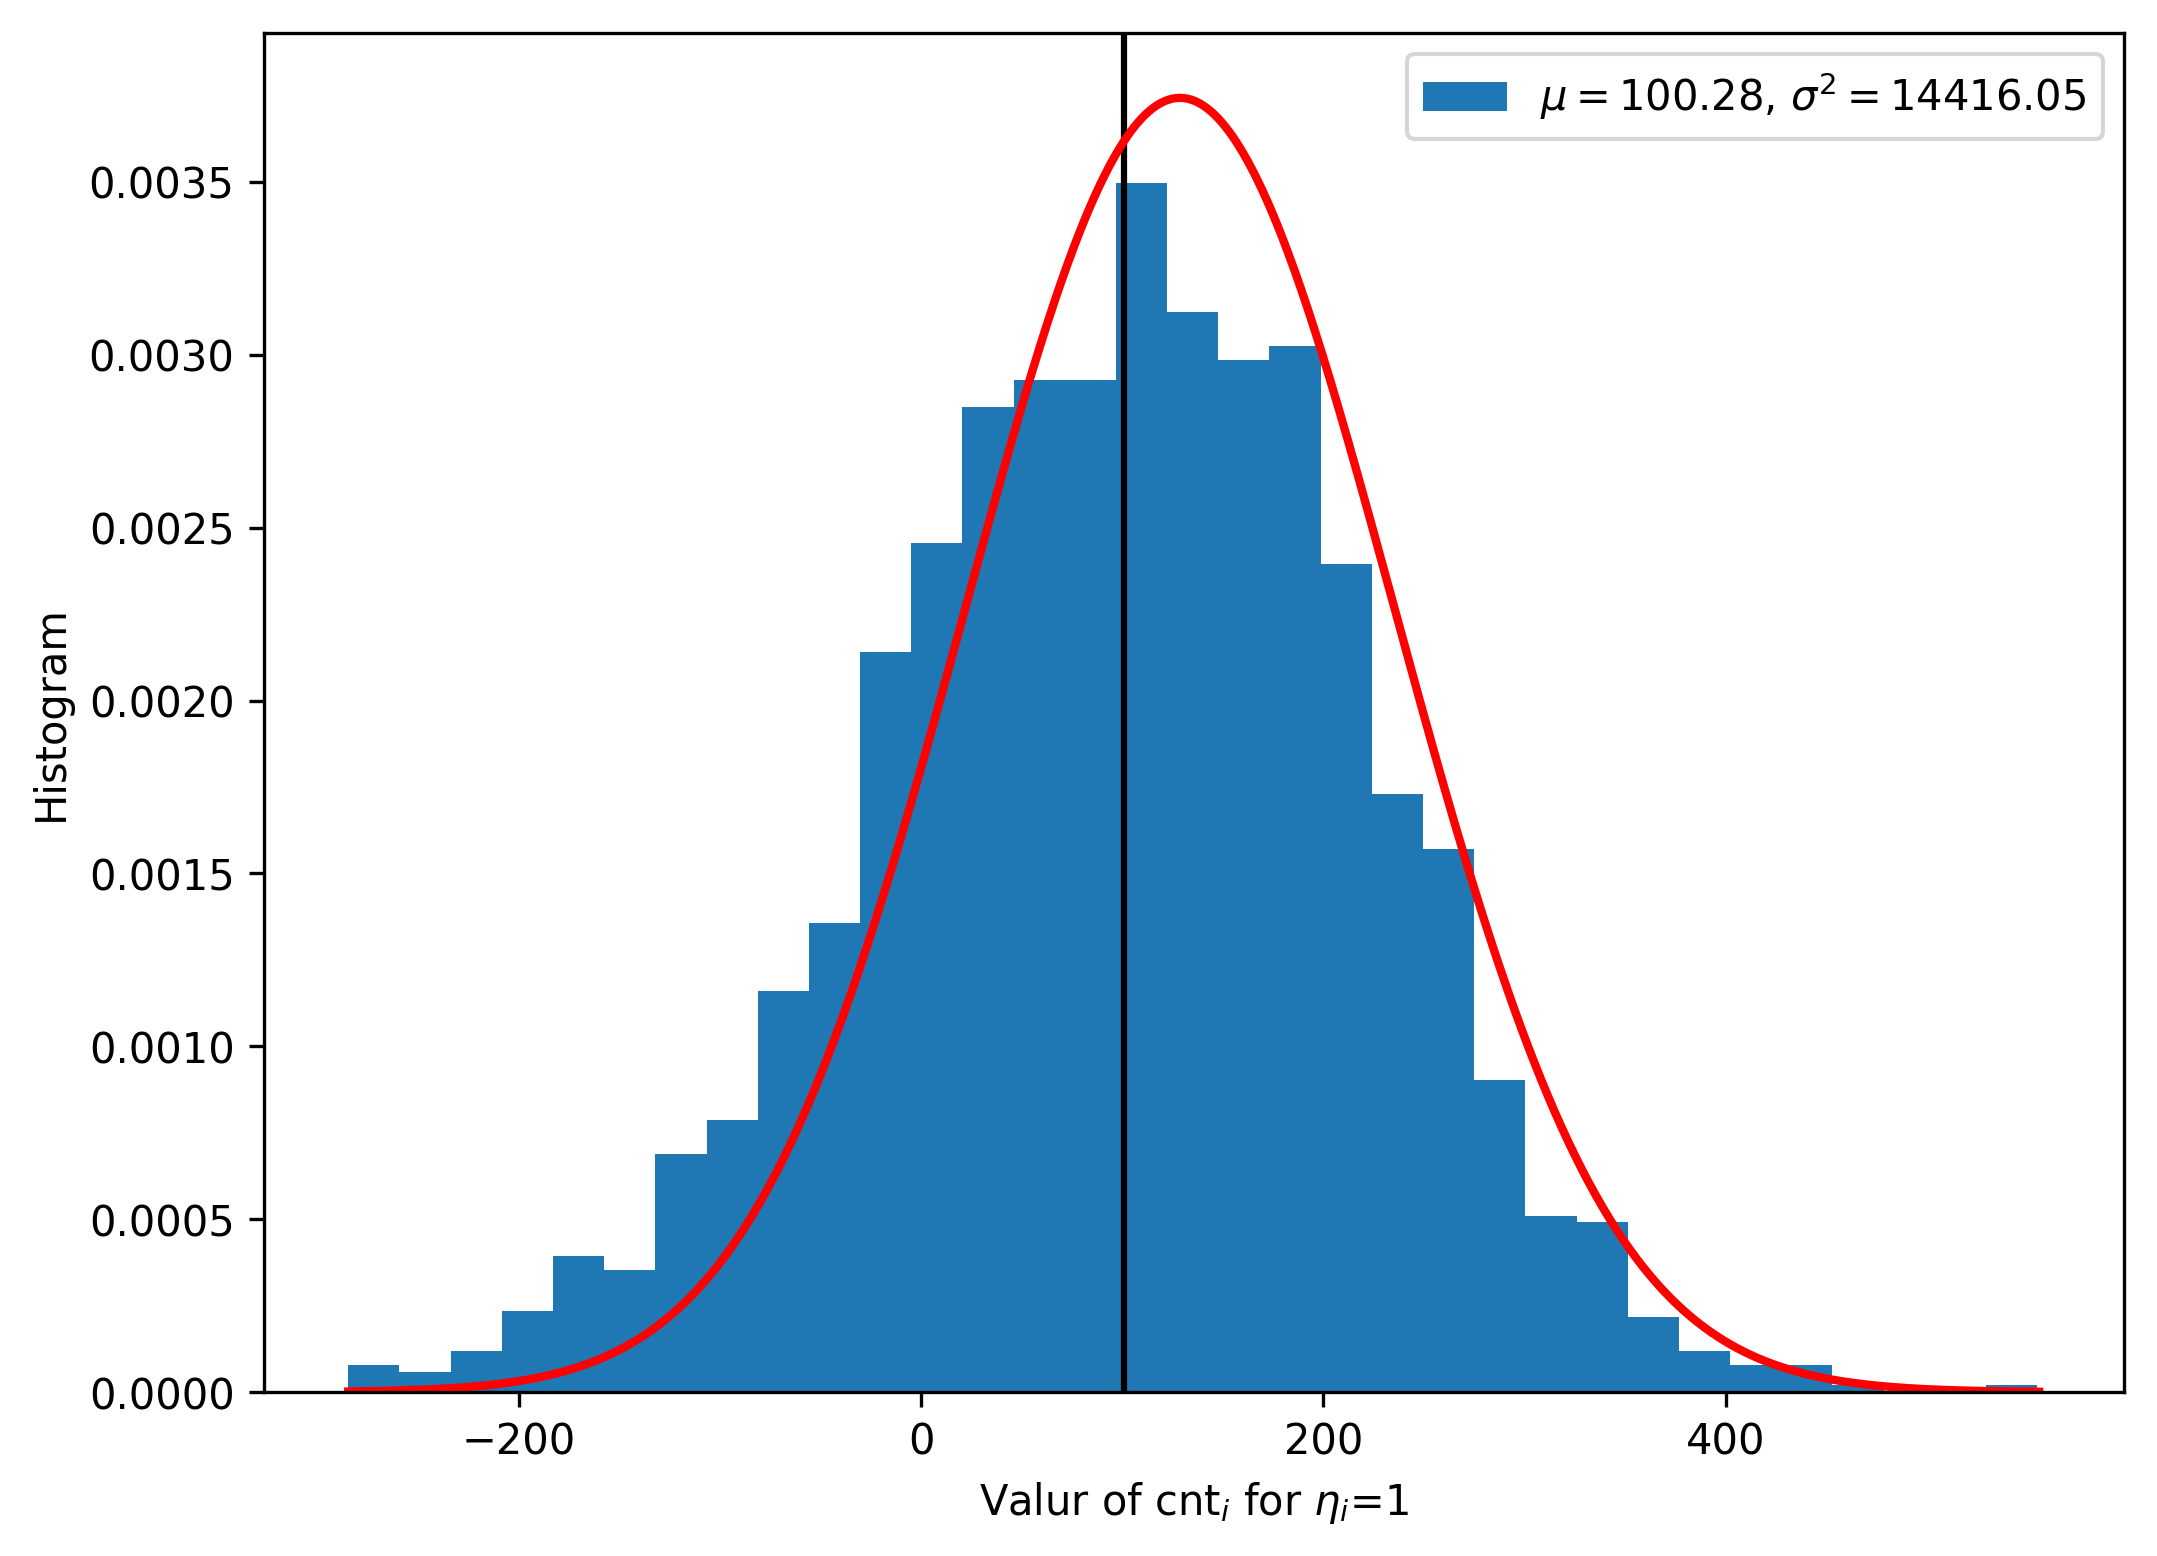
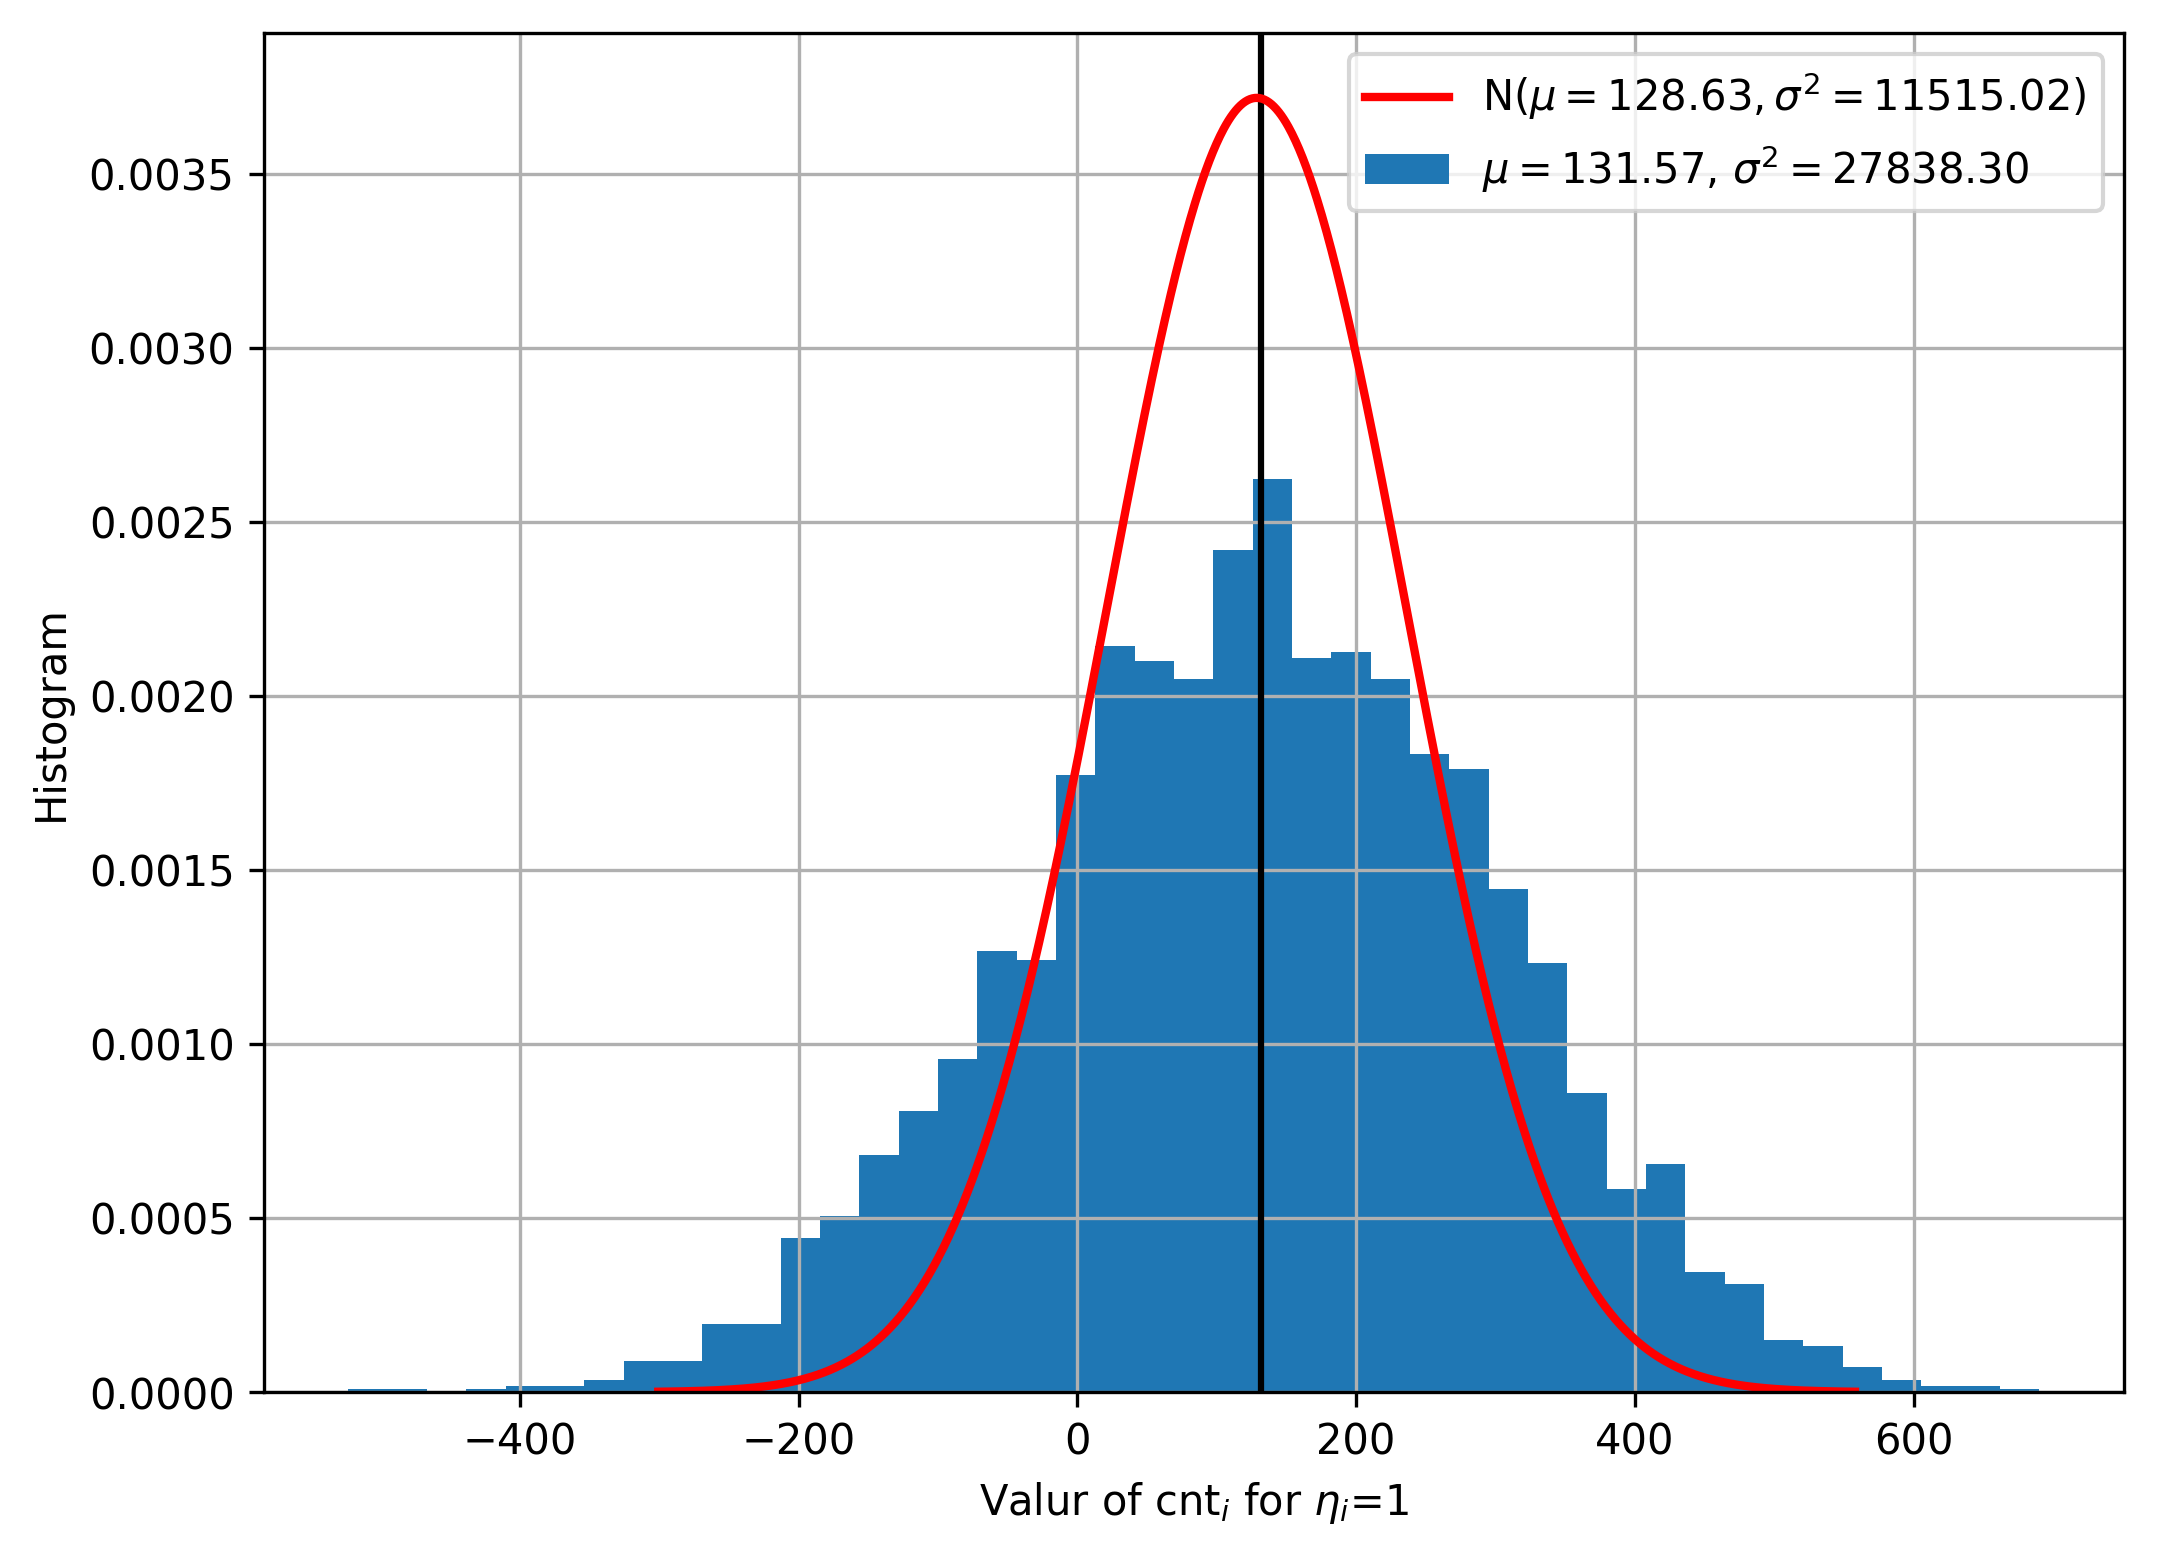
SDM Answer to Kanerva.

diff --git a/kanerva-answer.tex b/kanerva-answer.tex
@@ -67,12 +67,11 @@ $P(x_i = y_i | d(x, y) \le r) = \frac{\sum_{k=0}^{r} \binom{n-1}{k}}{\sum_{k=0}^
     Finally, the combinatorial identity
 
     \begin{align}
-    \frac{n-k}{n} \binom{n}{k} = (n-k)\binom{n-1}{k} =(n-k)\binom{n-1}{n-k-1} = \binom{n-1}{k}
+    \frac{n-k}{n} \binom{n}{k} = \frac{(n-k)}{n} \frac{n!}{(n-k)! k!} = \frac{(n-1)!}{k! (n-1-k)!} = \binom{n-1}{k}
     \end{align}
 
     closes the theorem.
 
-\qed
 \end{proof}
 
 This equation is valid for both ``x at x'' (autoassociative memory) and ``random at x'' (heteroassociative memory). When $n=1,000$ and $r=451$, $P(x_i = y_i | d(x, y) \le r) = p = 0.552905498137$.
@@ -166,7 +165,7 @@ Each sum is a sum of normally distributed random variables, so
 \sum_{k=1}^{(1-p)h} \left[ \text{cnt}_k | \text{addr}_k \ne \eta_1 \right] &\sim \mathcal{N}(\mu_3 = -\mu_2 (1-p)h, \sigma_3^2 = \sigma_2^2 (1-p)h + \mu_2^2 h p (1-p)) \label{eqn:sdm-eta1-addr0}
 \end{align}
 
-In our case, $\sum_{k=1}^{ph} \left[ \text{cnt}_k | \text{addr}_k=1 \right] \sim \mathcal{N}(\mu=672.12, \sigma^2=6281.00)$, and $\sum_{k=1}^{ph} \left[ \text{cnt}_k | \text{addr}_k=1 \right] \sim \mathcal{N}(\mu=-543.49, \sigma^2=5078.99)$. See Figure \ref{fig:sdm-read-sums} --- we can notice there a small but significant difference between the theoretical and the simulated mean.
+In our case, $\sum_{k=1}^{ph} \left[ \text{cnt}_k | \text{addr}_k=1 \right] \sim \mathcal{N}(\mu=672.12, \sigma^2=6281.00)$, and $\sum_{k=1}^{ph} \left[ \text{cnt}_k | \text{addr}_k=1 \right] \sim \mathcal{N}(\mu=-543.49, \sigma^2=5078.99)$. See Figure \ref{fig:sdm-read-sums} --- we can notice that the average is correct but the variance is too small.
 
 \begin{figure}[h!]
   \centering
@@ -184,7 +183,7 @@ Hence,
 \left[ \text{acc}_i|\eta_i=0 \right] &\sim \mathcal{N}(\mu = -(2p-1)^2 \theta h, \sigma^2 = \sigma_2^2 h + 2 \mu_2^2 hp(1-p)) \label{eqn:sdm-eta0}
 \end{align}
 
-In our case, $\left[ \text{acc}_i|\eta_i=1 \right] \sim \mathcal{N}(\mu = 128.62, \sigma^2 = 12181.95)$, and $\left[ \text{acc}_i|\eta_i=0 \right] \sim \mathcal{N}(\mu = -128.62, \sigma^2 = 12181.95)$. See Figure \ref{fig:sdm-read} --- we can notice that the small difference in the means from Figure \ref{fig:sdm-read-sums} has propagated to these images.
+In our case, $\left[ \text{acc}_i|\eta_i=1 \right] \sim \mathcal{N}(\mu = 128.62, \sigma^2 = 12181.95)$, and $\left[ \text{acc}_i|\eta_i=0 \right] \sim \mathcal{N}(\mu = -128.62, \sigma^2 = 12181.95)$. See Figure \ref{fig:sdm-read} --- we can notice that the variance issue from Figure \ref{fig:sdm-read-sums} has propagated to these images.
 
 \begin{figure}[h!]
   \centering
@@ -205,17 +204,26 @@ P(wrong) &= P(\text{acc}_i < 0 | \eta_i = 1) \cdot P(\eta_i = 1) + P(\text{acc}_
     &= \mathcal{N}_{\eta_i=1}.\text{cdf}(0)
 \end{align}
 
-In our case, $P(wrong) = 0.12193065104931683$.
+Using the empirical variance of $\sigma^2 = 27838.3029124$, we calculate $P(wrong) = 0.22037771219874325$.
 
-In order to check this probability, I have run a simulation reading from 1,000 random bitstrings (which have never been written into memory) and calculate the distance from the result of a single read. As the $P(wrong) = 0.12193$, I expected to get an average distance of 121.93 with a standard deviation of 10.34. See Figure \ref{fig:sdm-read-random-bs} --- We can notice a big difference between the theoretical model and the simulation. Using $\mu=221$ and $\sigma^2=168$, the curves match. I'm still looking for the mistake in the equations. I believe the problem is in Equation \ref{eqn:sdm-eta1-addr1}.
+In order to check this probability, I have run a simulation reading from 1,000 random bitstrings (which have never been written into memory) and calculate the distance from the result of a single read. As the $P(wrong) = 0.22037$, I expected to get an average distance of 220.37 with a standard deviation of 13.10. See Figure \ref{fig:sdm-read-random-bs} for the comparison between the simulated and the theoretical outcomes.
 
-\begin{figure}[h!]
+Figure \ref{fig:sdm-single-read-dist} shows the new distance between $\eta_d$ and $\text{read}(\eta_d)$, where $\eta_d$ is $d$ bits away from $\eta$. As for $d \ge 520$ there is no intersection between $\eta$ and $\eta_d$, our models applies and explains the horizontal line around distance 220.
+
+\begin{figure}[!htb]
   \centering
-  \includegraphics[width=0.75\textwidth]{./images02/autocorrelation/read-random-bs.png}
+  \includegraphics[width=0.6\textwidth]{./images02/autocorrelation/read-random-bs.png}
 
   \caption{The histogram was obtained through simulation. The red curve is the theoretical normal distribution.}
   \label{fig:sdm-read-random-bs}
 \end{figure}
 
+\begin{figure}[!htb]
+  \centering
+  \includegraphics[width=0.6\textwidth]{./images02/autocorrelation/single-read-dist.png}
+
+  \caption{New distance after a single read operation in a bitstring $\eta_d$, which is $d$ bits away from $\eta$. The new distance was calculated between $\eta_d$ and $\text{read}(\eta_d)$. Notice that when $d \ge 520$, the intersection between $\eta$ and $\eta_d$ is zero, which means there is only random bitstrings written into the activated hard locations. The distance 220 equals $1000 \cdot 0.220$ which is the probability find in Figure \ref{fig:sdm-read-random-bs}.}
+  \label{fig:sdm-single-read-dist}
+\end{figure}
 
 \end{document}
